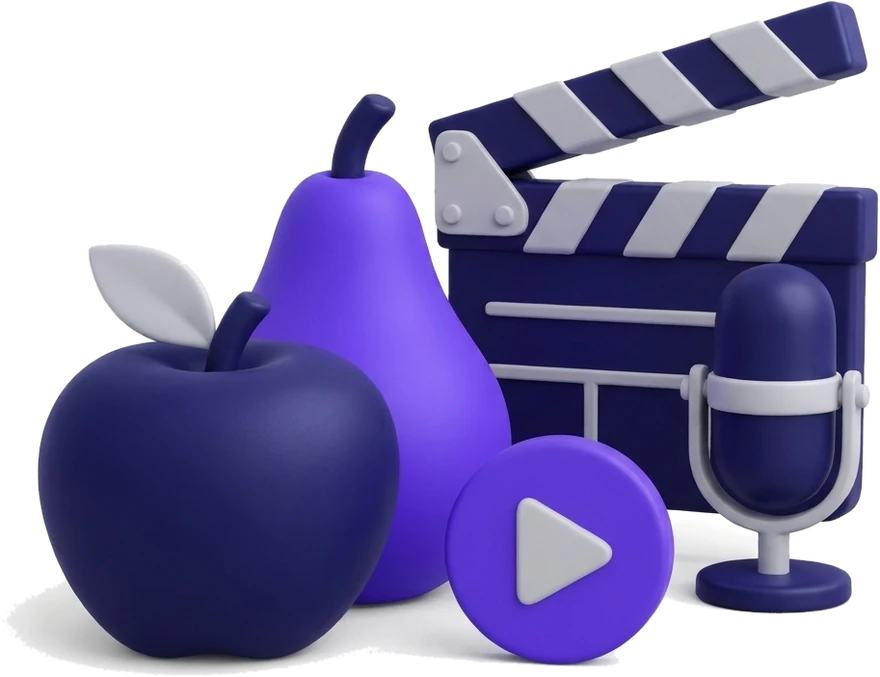
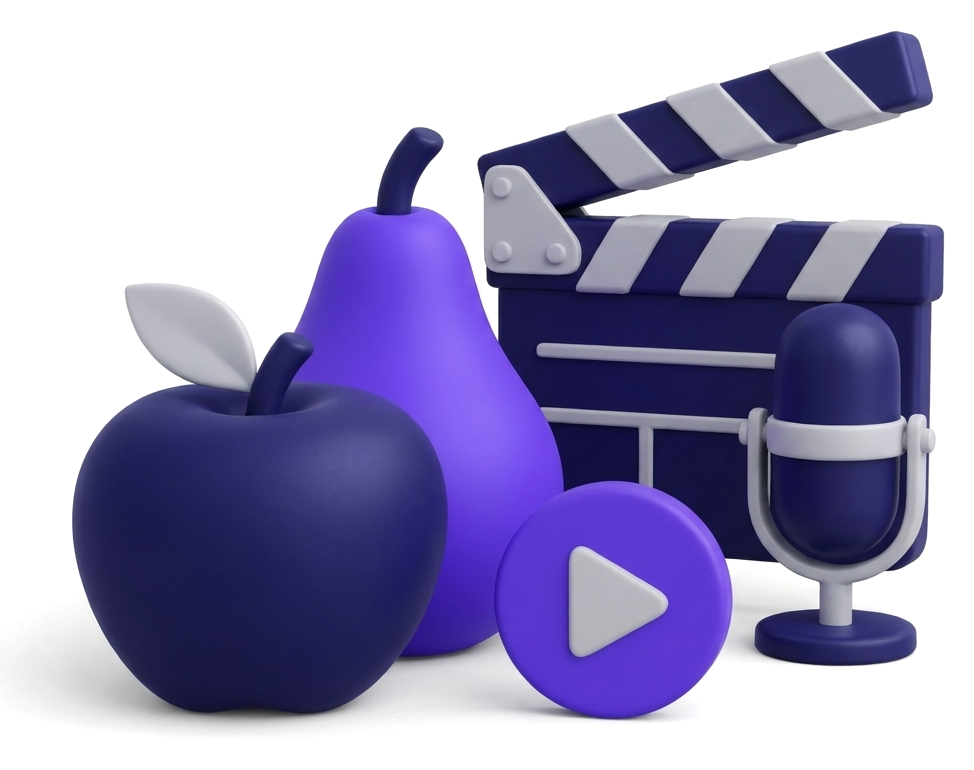
fix(heroes): sharper Grok Bot and Meta Muse art, shadows back on four industry heroes (#461)
- Grok Bot and Meta Muse: regenerated with the house fruit (matte satin
  navy apple, violet pear, grey leaf) and only a faint contact shadow, and
  uploaded as the full 1280px render, lossless. The hero slot requests
  1120px, so the old 880px files were being upscaled and looked soft.
- Transport, technology, energy and media: back to the original
  white-background renders, which keep their natural soft shadows. The
  transparent cut-outs had stripped them. Saved lossless.
- All six get one smooth white-level lift on neutral pixels only (238 stays,
  250 and above go to pure white), so no off-white box shows on the white
  page and the shadows are not clipped.

Sanity is already patched (hero art only). Legal and hospitality are left
to PR #459.

diff --git a/scripts/vc/add-ai-partners-2026-11.ts b/scripts/vc/add-ai-partners-2026-11.ts
@@ -62,7 +62,7 @@ const PAGES: Spec[] = [
       badge: 'Grok Bot consulting & implementation',
       heading: 'AI teammates that *finish the work.*',
       lead: 'Fruition sets up Grok Bot for teams: shared Bots in Slack and Microsoft Teams with their own computer, signed in to your tools, with the guardrails and approvals your business needs.',
-      art: 'hero-grok.webp',
+      art: 'hero-grok.png',
       artAlt: 'A friendly robot teammate waving beside the Fruition apple and pear',
       secondary: 'What Grok Bot does',
     },
@@ -120,7 +120,7 @@ const PAGES: Spec[] = [
       badge: 'Meta Muse consulting & implementation',
       heading: 'An agent that *runs the errands.*',
       lead: 'Fruition puts Meta Muse to work for your business: Muse agents connected to the accounts you already run, WhatsApp workflows and custom builds on Muse Spark, with the guardrails your team needs.',
-      art: 'hero-muse.webp',
+      art: 'hero-muse.png',
       artAlt: 'A friendly assistant character with a shopping bag and calendar beside the Fruition apple and pear',
       secondary: 'What Muse does',
     },
